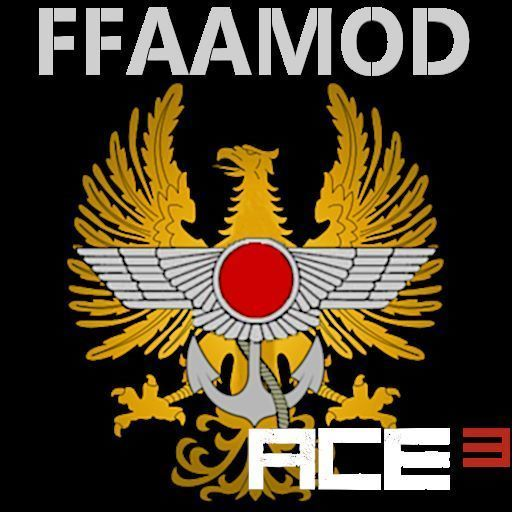
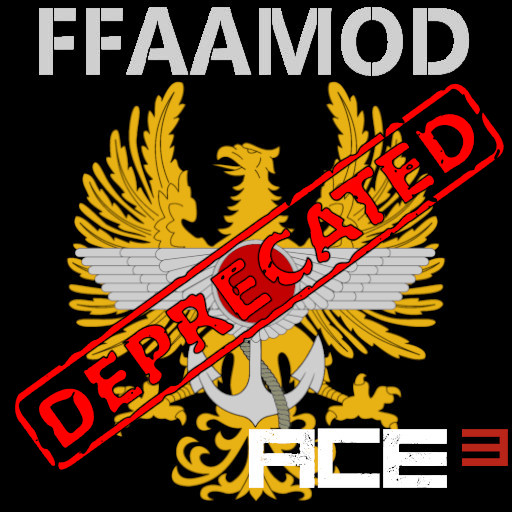
Prepared for __has_include macro
And make this addon a deprecated one. It would be moved to internal Git repository instead.

diff --git a/addons/main/config.cpp b/addons/main/config.cpp
@@ -1,3 +1,7 @@
+#if __has_include("\ffaa_comp_ace\script_component.hpp")
+    // Do not load when ffaa_comp_ace already exists
+#else
+
 #include "script_component.hpp"
 #define _ARMA_
 #include "CfgVehicles.hpp"
@@ -83,3 +87,6 @@ class CBA_DisposableLaunchers {
 	ACE_ffaa_armas_c100_abk_ready[] = {"ffaa_armas_c100_abk","ACE_ffaa_armas_c100_used"};
 	ACE_ffaa_armas_c100_vosel_ready[] = {"ffaa_armas_c100_vosel","ACE_ffaa_armas_c100_used"};
 };
+
+#endif
+

diff --git a/addons/main/script_version.hpp b/addons/main/script_version.hpp
@@ -1,4 +1,4 @@
 #define MAJOR 1
 #define MINOR 9
-#define PATCHLVL 1
+#define PATCHLVL 2
 #define BUILD 0
